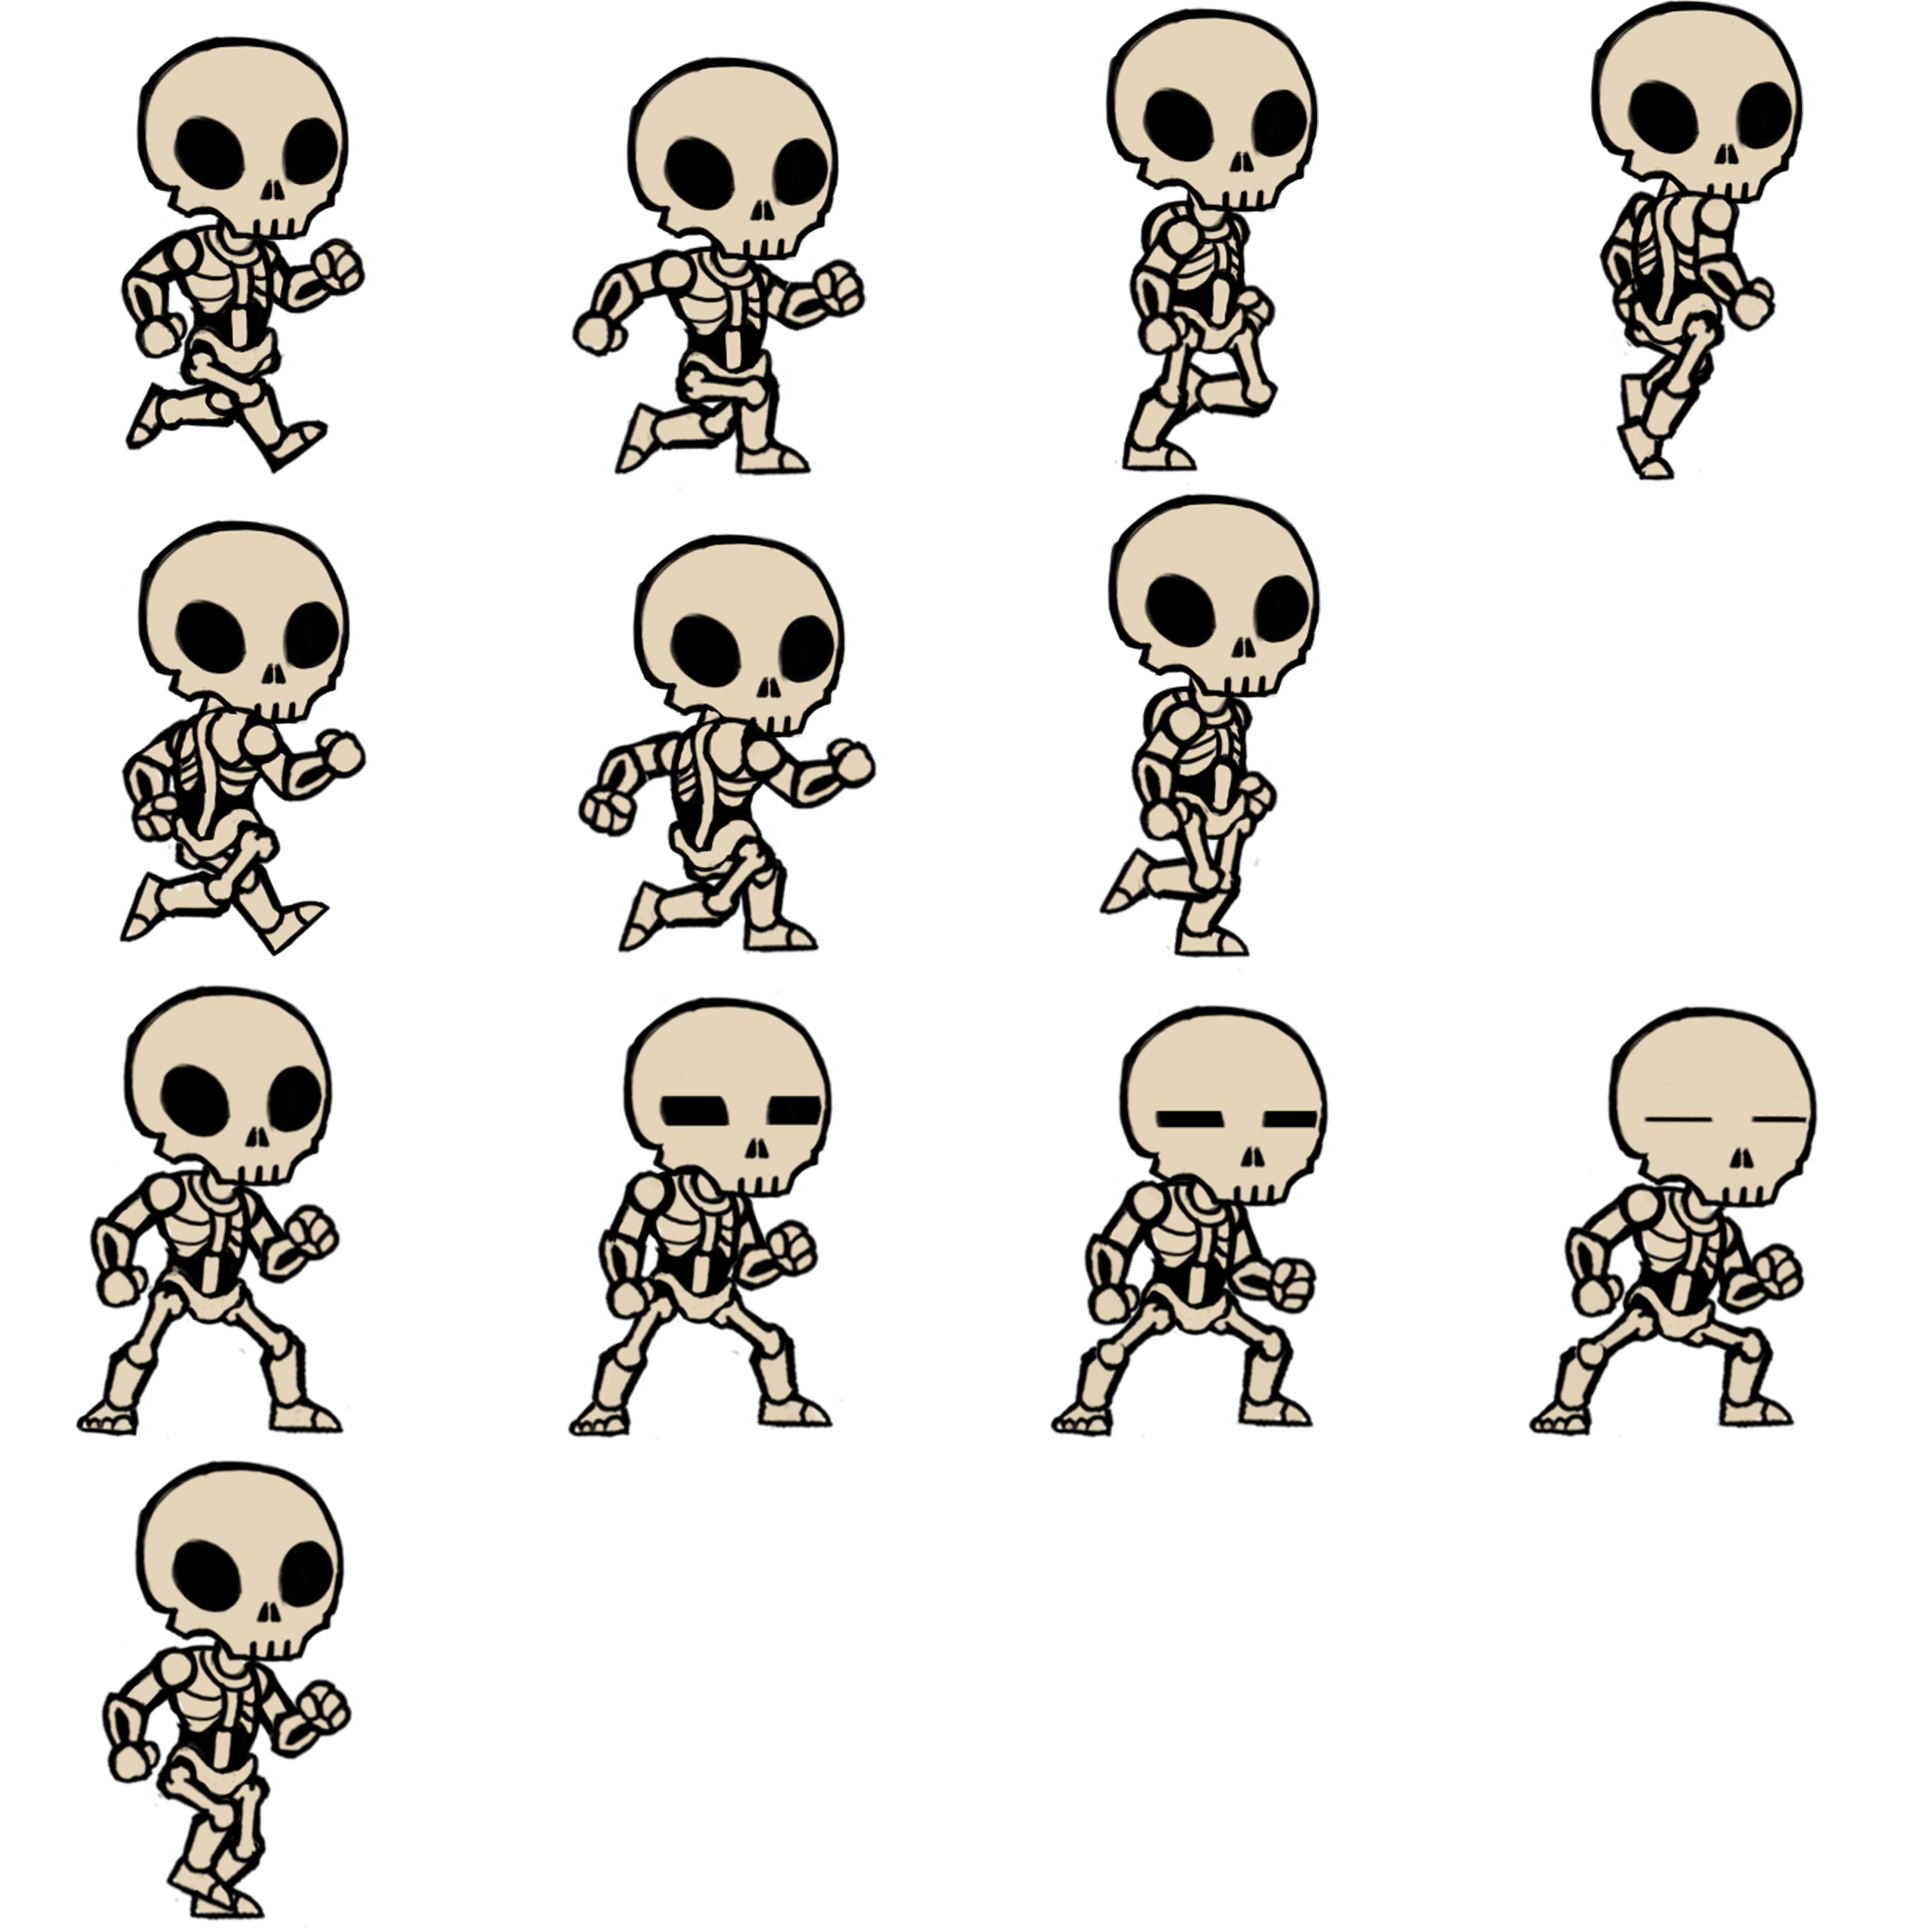
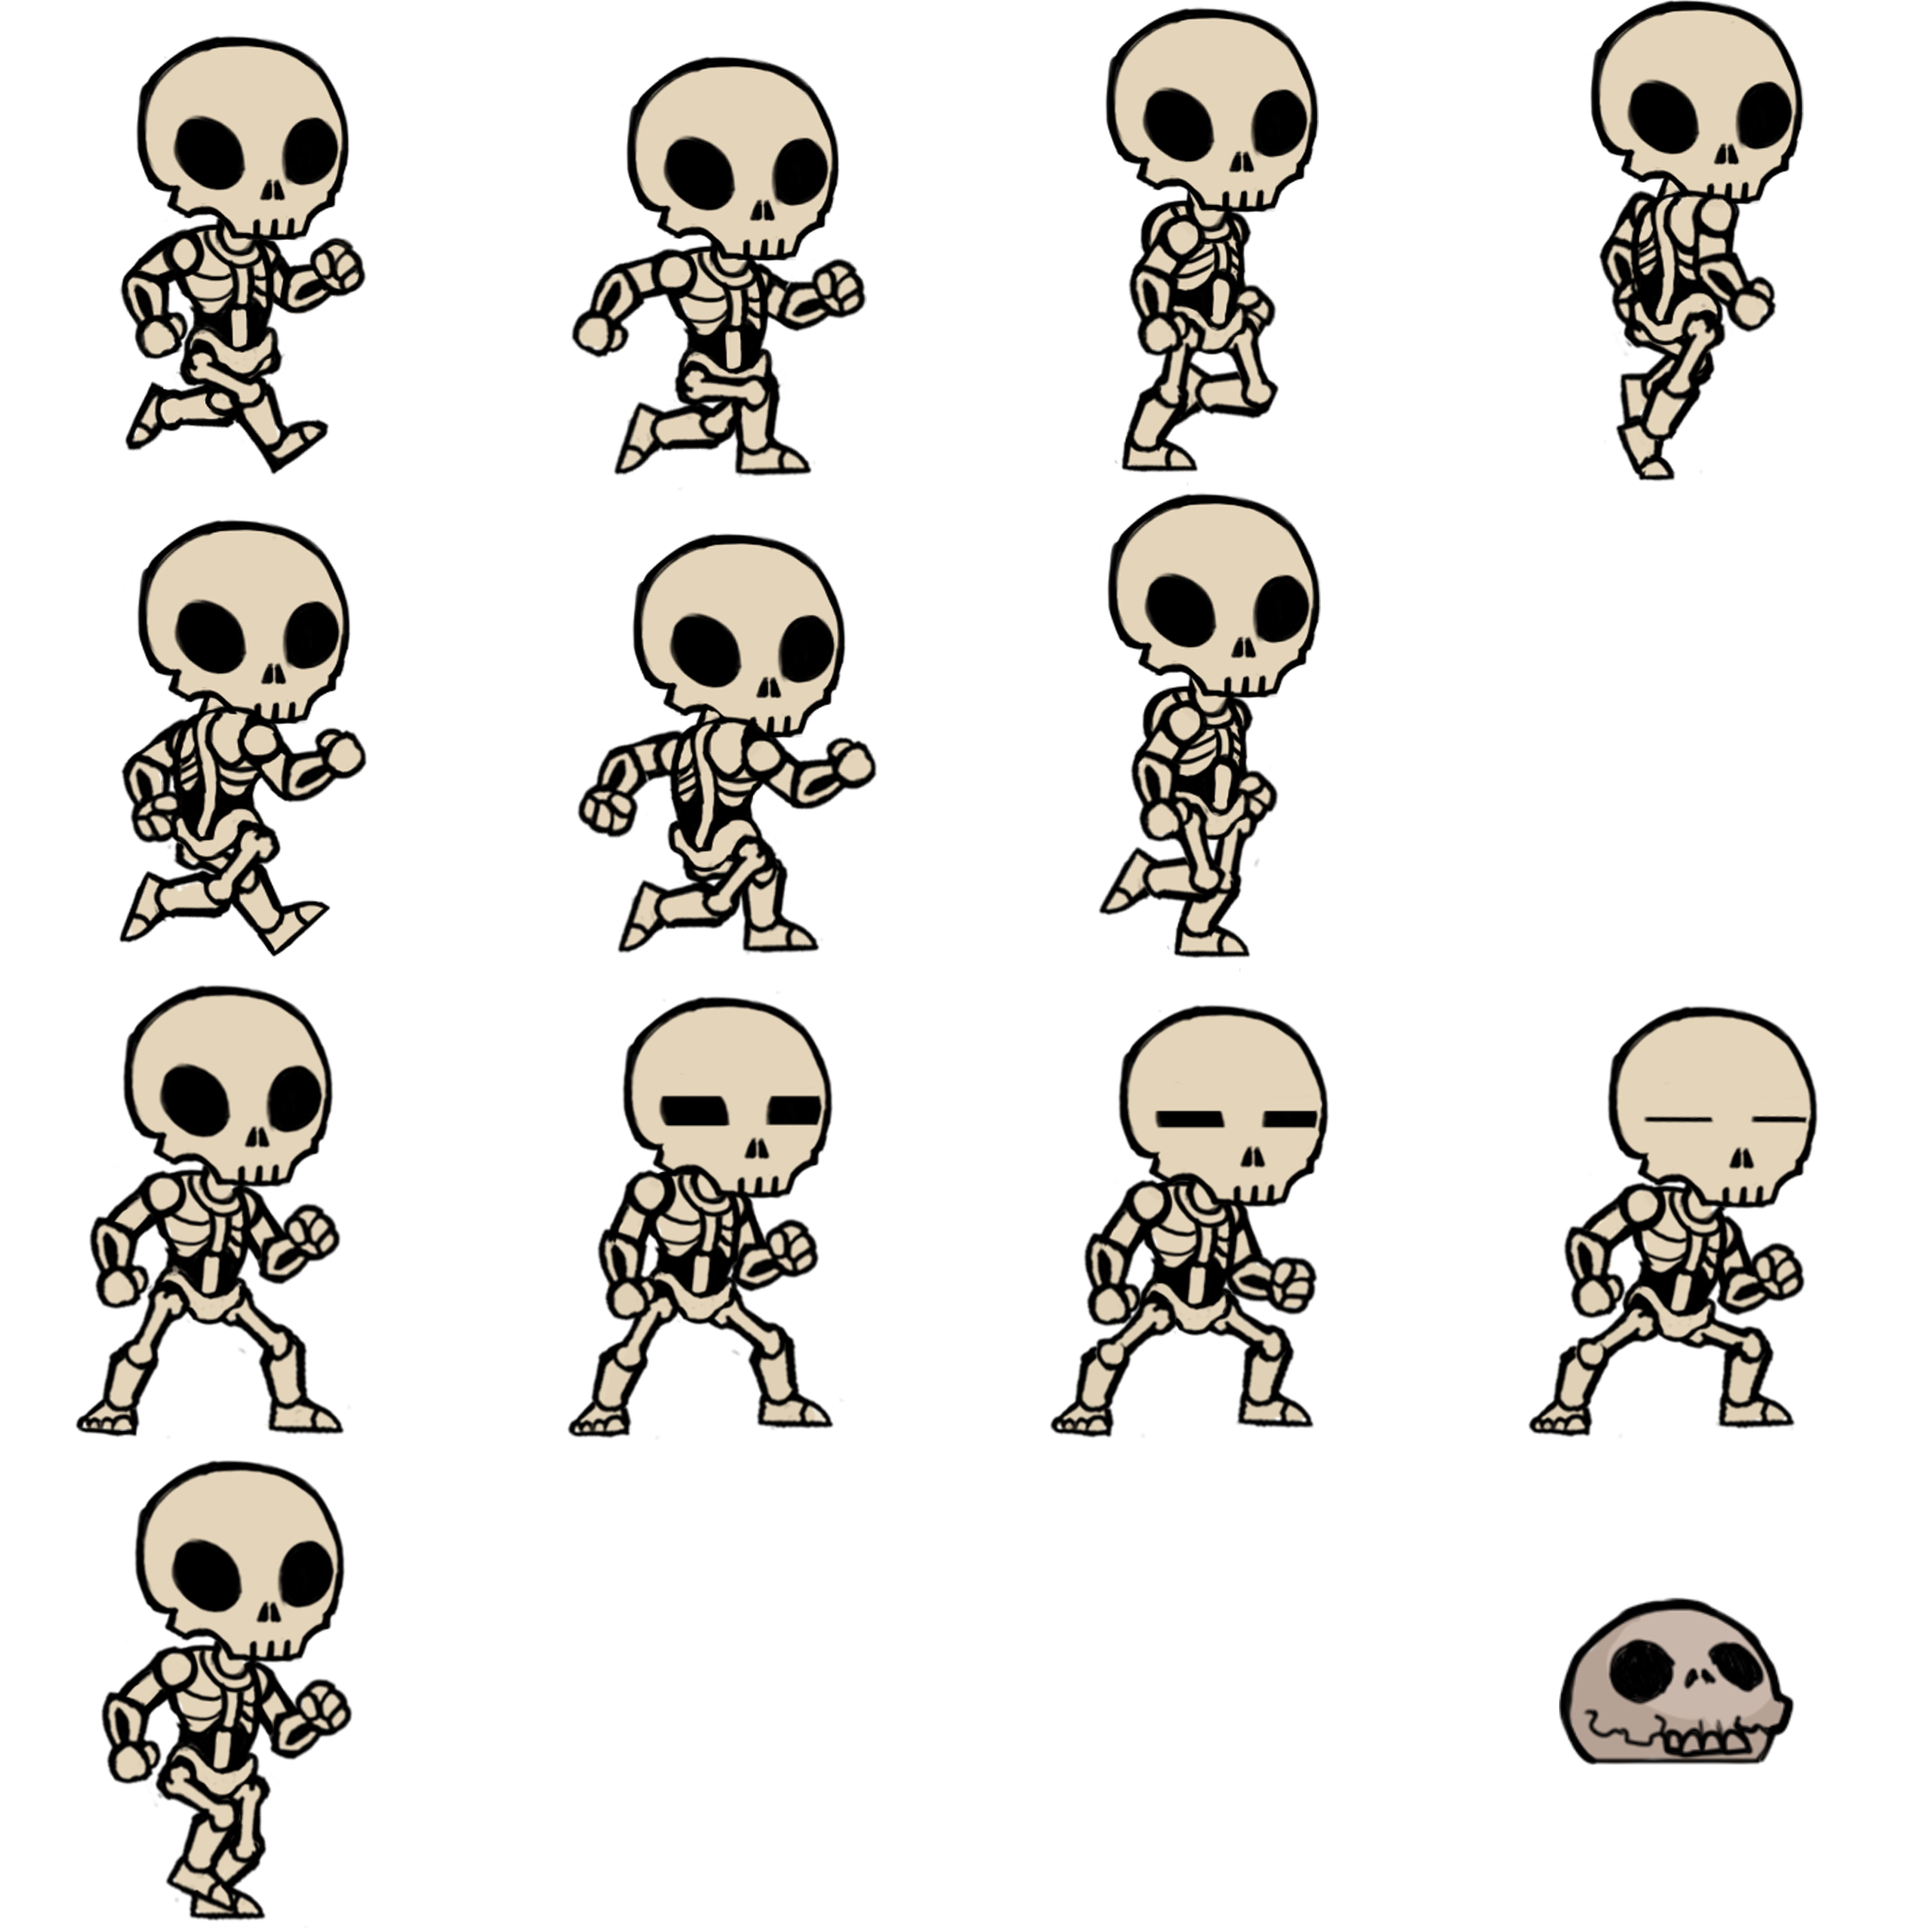
added janky death code

Changed region(s): [[0.8125, 0.8125, 0.9375, 0.9375]]

diff --git a/src/player.cpp b/src/player.cpp
@@ -19,12 +19,13 @@
 
 using std::vector;
 
-enum CONTROL_MODE { CONTROL_MODE_FREE, CONTROL_MODE_HIT, CONTROL_MODE_INVULN };
+enum CONTROL_MODE { CONTROL_MODE_FREE, CONTROL_MODE_HIT, CONTROL_MODE_INVULN, CONTROL_MODE_DEAD };
 
 class Player: public Actor
 {	
 	bool anim_transition = false;
-	
+	bool dead = false;
+
 	long hit_delay; 
 	long last_hit;
 
@@ -32,6 +33,8 @@ class Player: public Actor
 
 	int jumpjuice = 0;	
 	
+	Rect dead_box;
+
 	public:
 		bool* keys_down;
 
@@ -41,7 +44,8 @@ class Player: public Actor
 		Animation* idle_anim;
 		Animation* jump_anim;
 		Animation* idle_to_walk_anim;
-		
+		Animation* death_anim;
+
 		Player( void );
 		Player( Vec2d pos );
 		
@@ -57,6 +61,7 @@ Player::Player( void )
 	idle_anim = NULL;
 	jump_anim = NULL;
 	idle_to_walk_anim = NULL;
+	death_anim = NULL;
 	active_anim = NULL;
 
 	sheet = NULL;
@@ -76,7 +81,7 @@ Player::Player( Vec2d pos )
 	set_position( pos );
 	set_velocity( Vec2d( 0.f, 0.f ) );
 
-	maxhp = 3; hp = maxhp;
+	maxhp = 1; hp = maxhp;
 	
 	hitbox.push_back( Rect( pos.add( Vec2d( -0.05, -0.2 ) ), 0.1, 0.05 ) );
 	hitbox.push_back( Rect( pos.add( Vec2d( -0.1, -0.2) ), 0.2, 0.4  ) );
@@ -113,6 +118,12 @@ Player::Player( Vec2d pos )
 
 	idle_to_walk_anim->add_frame( Rect( Vec2d( 0.f, 0.75f ), 0.25f, 0.25f ) );
 
+	//LOAD DEATH ANIMATION //
+	death_anim = new Animation();
+
+	death_anim->add_frame( Rect( Vec2d( 0.75f, 0.75f), 0.25f, 0.25f) );
+	dead_box = Rect( Vec2d( -0.1f, -0.05f ), 0.2f, 0.05f );
+
 	active_anim = idle_anim;
 }
 
@@ -126,6 +137,7 @@ void Player::render( void )
 		case CONTROL_MODE_HIT:
 		case CONTROL_MODE_INVULN:
 		if( t%500 > 250 ) glColor3f( 0.5f, 0.5f, 0.5f );
+		case CONTROL_MODE_DEAD:
 		case CONTROL_MODE_FREE:
 		active_anim->render( sheet, renderbox, !facing_right );
 		break;
@@ -208,6 +220,9 @@ void Player::update( vector<Block> ground_set, vector<Actor*> enemy_set, float d
 		if( t > last_hit + hit_delay ) control_mode = CONTROL_MODE_FREE;
 
 		case CONTROL_MODE_FREE:
+
+		if( hp <= 0 ) control_mode = CONTROL_MODE_DEAD;
+
 		if( keys_down[KEY_UP] )
 		{
 			if( grounded ) set_velocity( Vec2d( get_velocity().get_a(),  0.2f ) );
@@ -244,7 +259,21 @@ void Player::update( vector<Block> ground_set, vector<Actor*> enemy_set, float d
 		break;
 
 		case CONTROL_MODE_HIT:
+		if( hp <= 0 ) control_mode = CONTROL_MODE_DEAD;
 		if( grounded ) control_mode = CONTROL_MODE_INVULN;
+		break;
+
+		case CONTROL_MODE_DEAD:
+		if( get_velocity().get_a() > 0.01 ) dx -= 0.01;
+		else if( get_velocity().get_a() < -0.01 ) dx += 0.01;
+		else set_velocity( Vec2d( 0, get_velocity().get_b() ) );
+
+		if( active_anim != death_anim )
+		{
+			active_anim = death_anim;
+			hitbox.clear();
+			hitbox.push_back( dead_box.add( this->position ) );
+		}
 		break;
 	}
 	if( !grounded ) dy -= 0.01f;
@@ -258,7 +287,7 @@ void Player::update( vector<Block> ground_set, vector<Actor*> enemy_set, float d
 	if( get_velocity().get_a() > 0.f ) facing_right = true;
 	else if( get_velocity().get_a() < 0.f ) facing_right = false;
 		
-	if( (t - frame_tick) > (1000 / 8) )
+	if( (t - frame_tick) > (1000 / 8) && active_anim != death_anim )
 	{
 		active_anim->increment();
 		frame_tick = t;
@@ -277,7 +306,7 @@ void Player::update( vector<Block> ground_set, vector<Actor*> enemy_set, float d
 		
 		if( !anim_transition )
 		{
-			if( grounded )
+			if( grounded && active_anim )
 			{
 				if( get_velocity().get_a() == 0 
 					&& active_anim != idle_anim )

diff --git a/include/player.h b/include/player.h
@@ -11,11 +11,12 @@
 
 using std::vector;
 
-enum CONTROL_MODE { CONTROL_MODE_FREE, CONTROL_MODE_HIT, CONTROL_MODE_INVULN };
+enum CONTROL_MODE { CONTROL_MODE_FREE, CONTROL_MODE_HIT, CONTROL_MODE_INVULN, CONTROL_MODE_DEAD };
 
 class Player: public Actor
 {
 	bool anim_transition = false;
+	bool dead = false;
 
 	long hit_delay;
 	long last_hit;
@@ -23,6 +24,8 @@ class Player: public Actor
 	CONTROL_MODE control_mode = CONTROL_MODE_FREE;
 
 	int jumpjuice = 0;
+
+	Rect dead_box;
 
 	public:
 		bool* keys_down;
@@ -33,6 +36,7 @@ class Player: public Actor
 		Animation* idle_anim;
 		Animation* jump_anim;
 		Animation* idle_to_walk_anim;
+		Animation* death_anim;
 
 		Player( void );
 		Player( Vec2d pos );

diff --git a/src/enemy.cpp b/src/enemy.cpp
@@ -156,8 +156,8 @@ void EnemySkeleton::update( vector<Block> ground_set, vector<Actor*> enemy_set, 
 	//Walk
 	else
 	{
-		if( !walk_right && get_velocity().get_a() > -0.05 ) dx -= 0.01;
-		else if( walk_right && get_velocity().get_a() < 0.05 ) dx += 0.01;
+		if( !walk_right && get_velocity().get_a() > -0.02 ) dx -= 0.01;
+		else if( walk_right && get_velocity().get_a() < 0.02 ) dx += 0.01;
 	}
 
 	set_velocity( get_velocity().add( Vec2d( dx, dy ) ) );

diff --git a/src/game.cpp b/src/game.cpp
@@ -26,7 +26,7 @@ class Game
 
 Game::Game( void )
 {
-	debug = false;
+	debug = true;
 
 	finished = false;
 	window = NULL;
